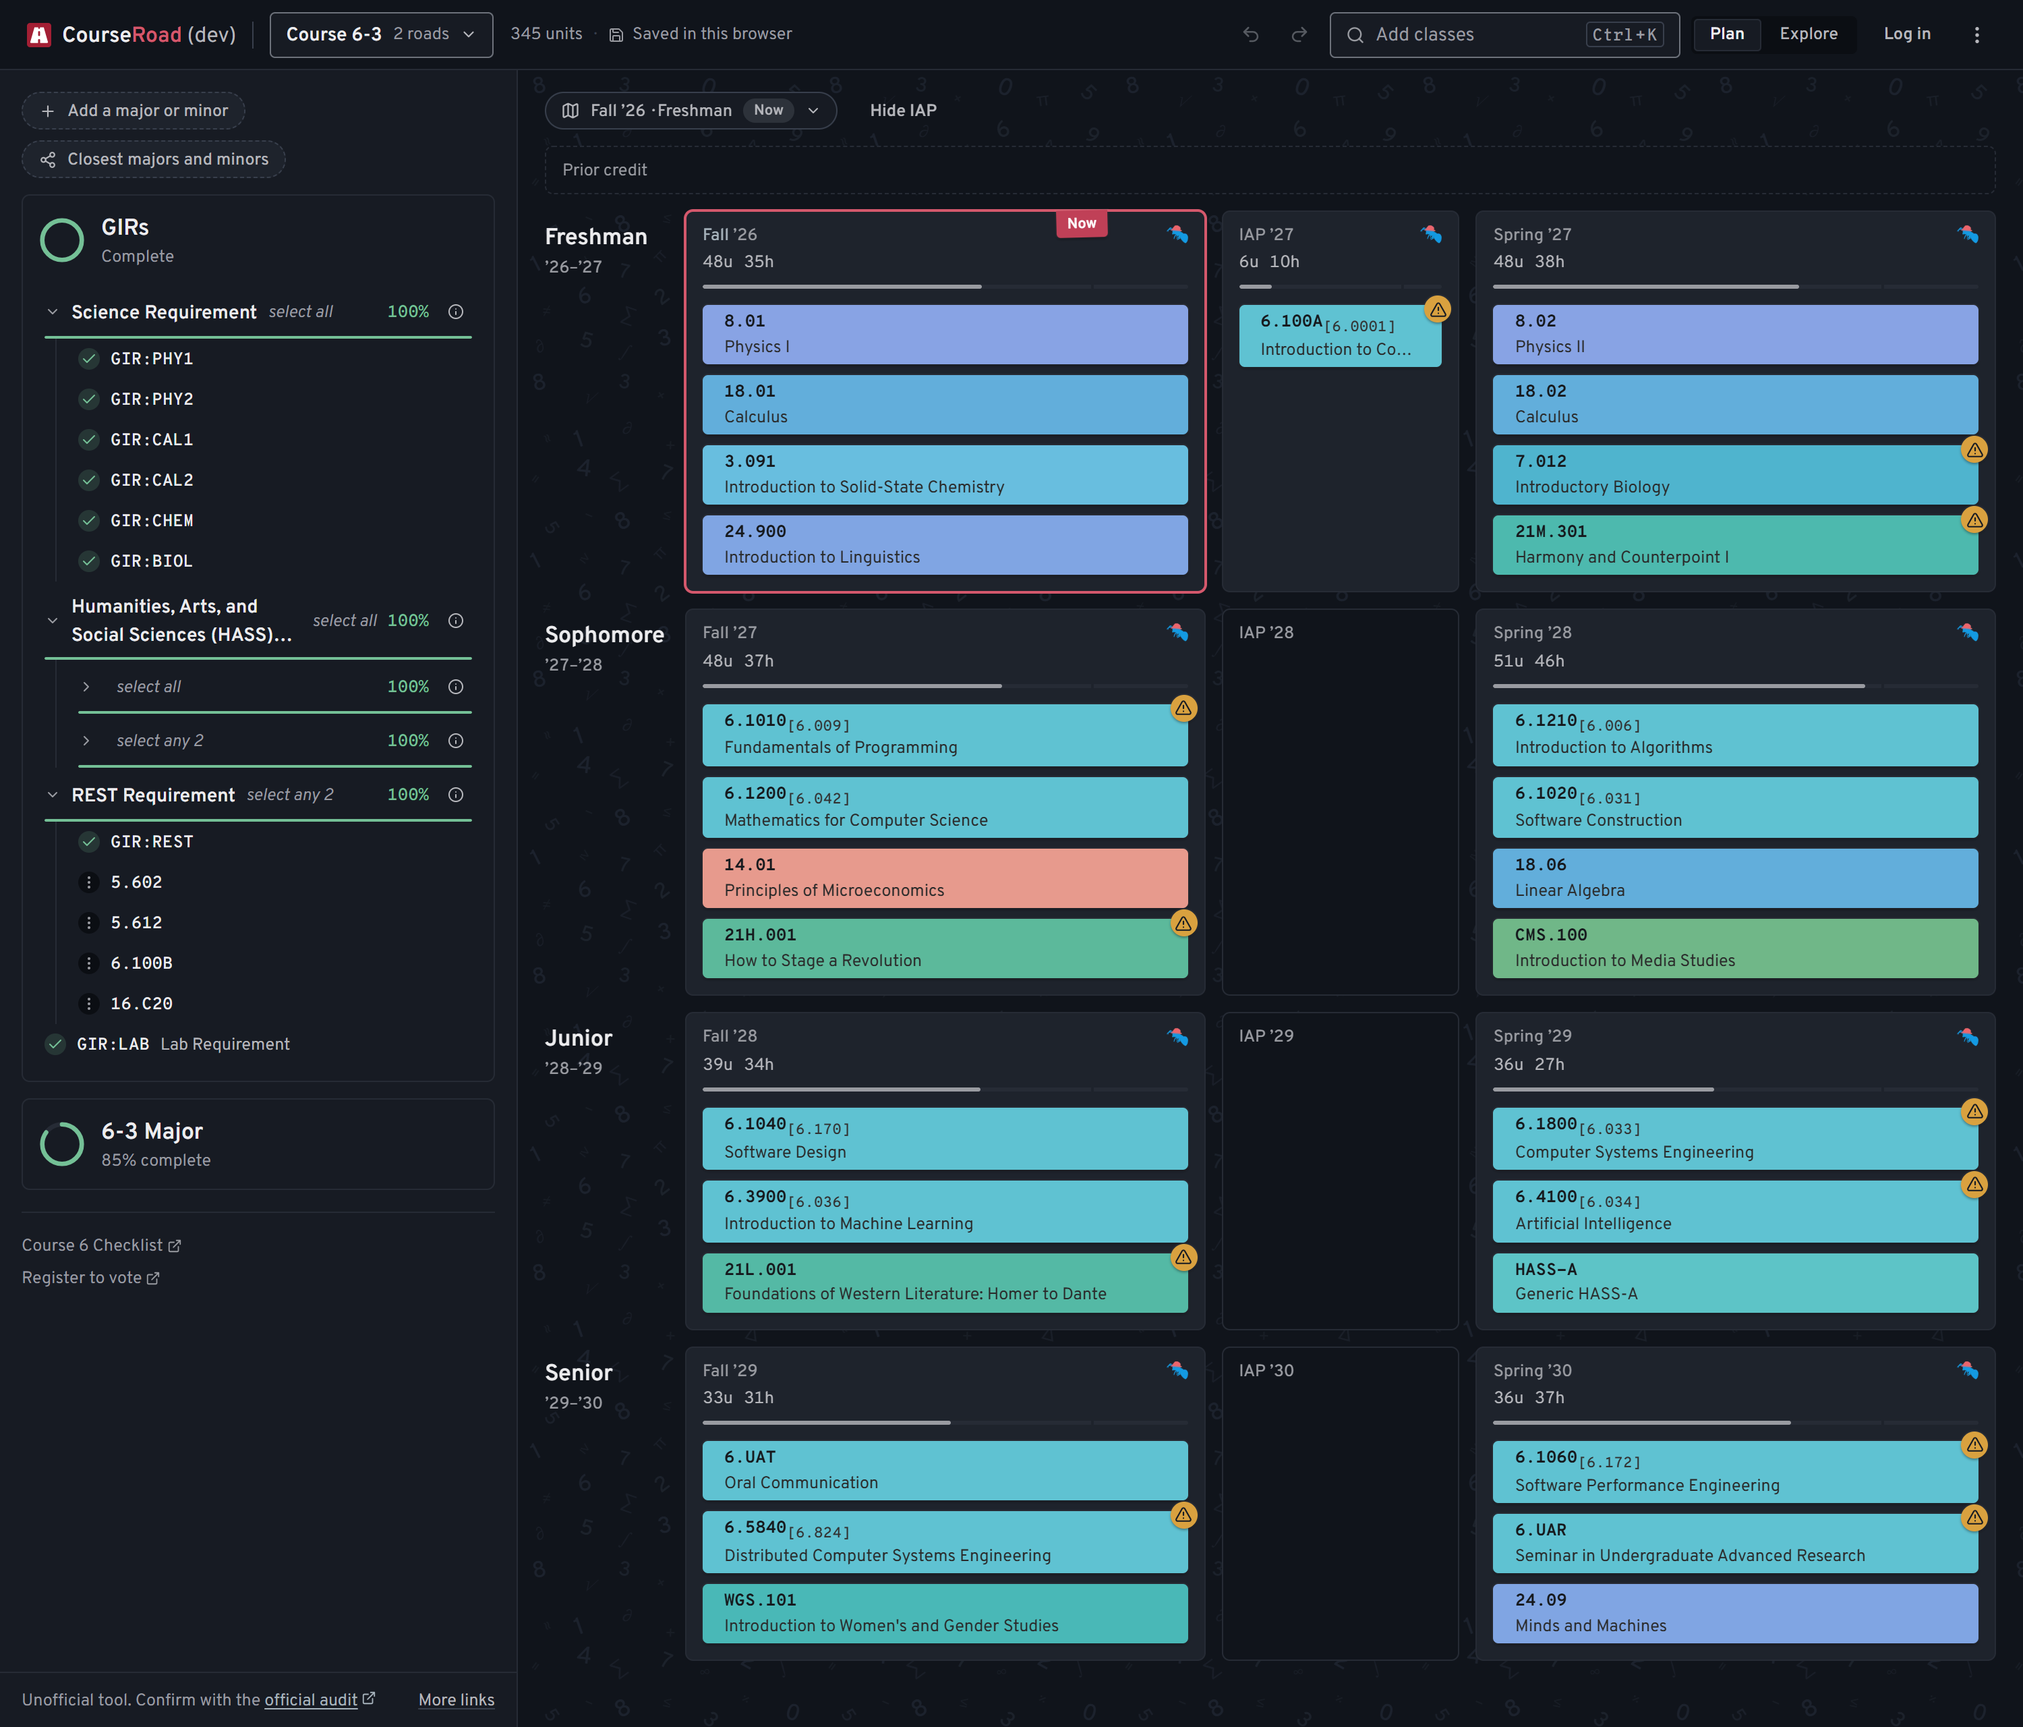
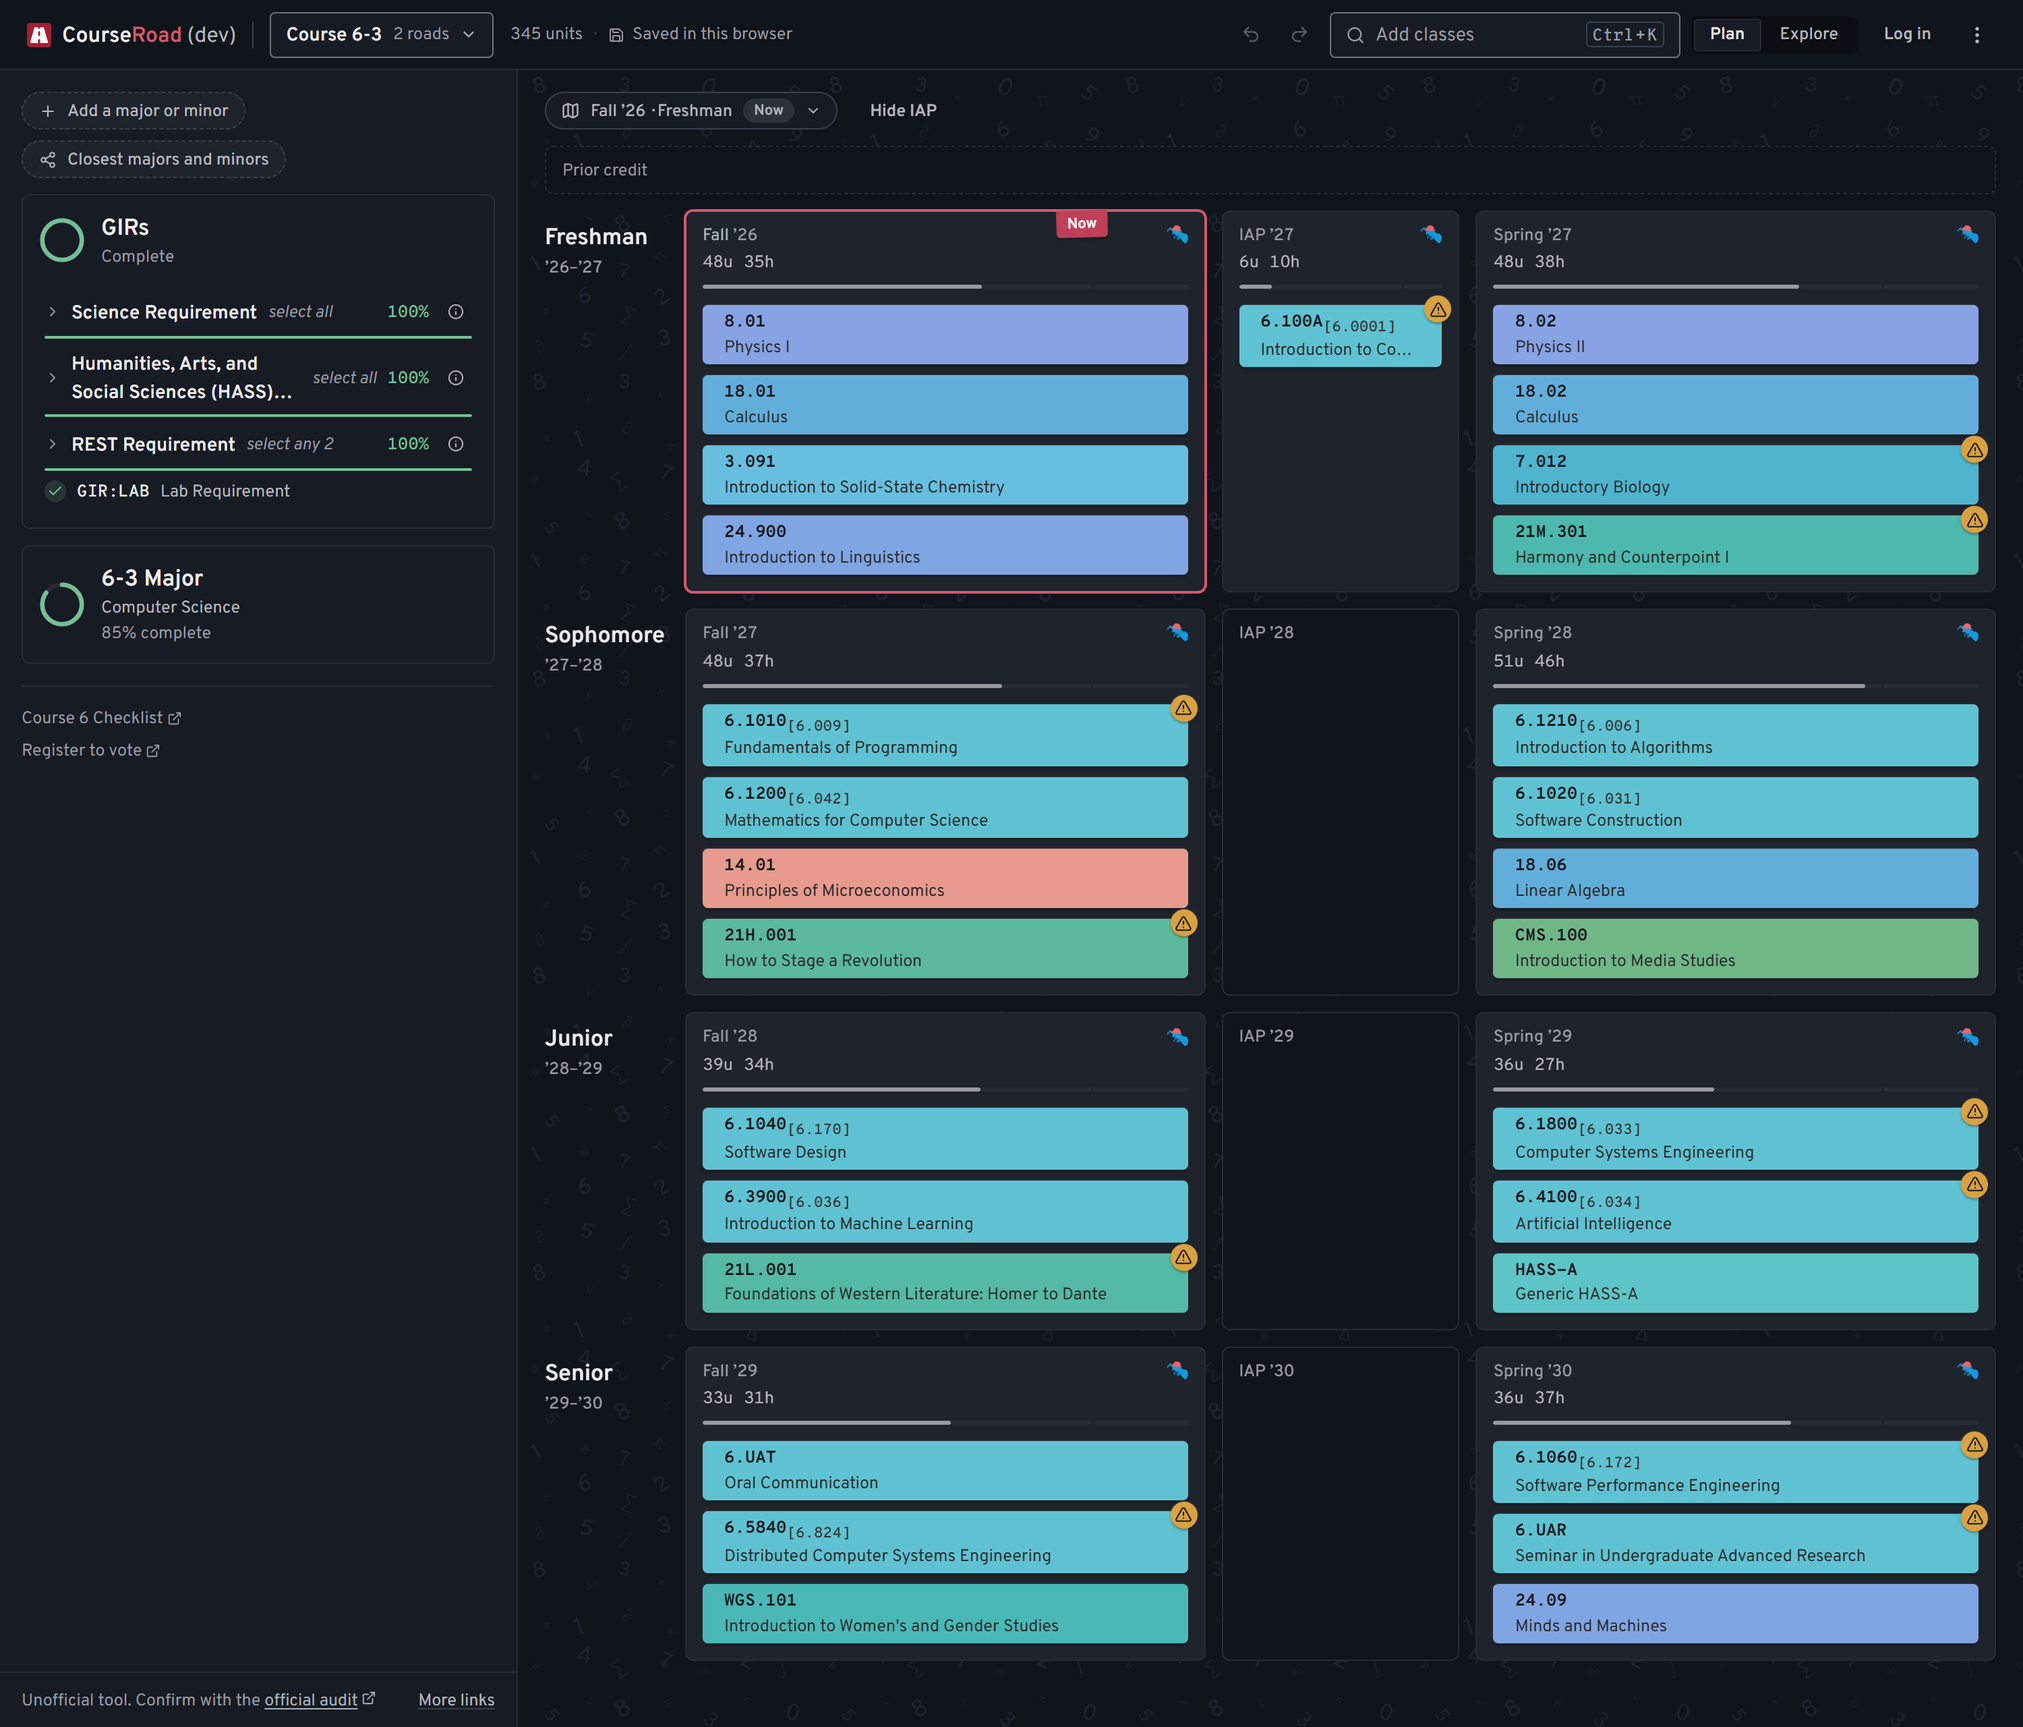
subtitle for programs, start closed

diff --git a/tests/unit/components/programSection.spec.ts b/tests/unit/components/programSection.spec.ts
@@ -2,6 +2,7 @@
 import { afterEach, beforeEach, describe, expect, it, vi } from "vitest";
 import { mount, type VueWrapper } from "@vue/test-utils";
 import { createPinia, setActivePinia } from "pinia";
+import type { ReqListEntry } from "../../../src/lib/types";
 import { reqTree, type PartialReqNode } from "../lib/fixtures";
 
 const mocks = vi.hoisted(() => ({
@@ -32,6 +33,20 @@ afterEach(() => {
   wrapper = undefined;
 });
 
+function listEntry(
+  key: string,
+  mediumTitle: string,
+  titleNoDegree: string,
+): ReqListEntry {
+  return {
+    key,
+    "short-title": key,
+    "medium-title": mediumTitle,
+    title: mediumTitle,
+    "title-no-degree": titleNoDegree,
+  };
+}
+
 describe("ProgramSection failure state", () => {
   it("shows the failed state and retries the one program", async () => {
     const audit = useAuditStore();
@@ -39,7 +54,7 @@ describe("ProgramSection failure state", () => {
     mocks.getProgress.mockResolvedValue({ data: { fulfilled: false } });
 
     wrapper = mount(ProgramSection, {
-      props: { programKey: "major18", tree: null, title: "18 Major" },
+      props: { programKey: "major18", tree: null },
     });
     expect(wrapper.text()).toContain("Progress didn't load");
     expect(wrapper.text()).not.toContain("Computing...");
@@ -53,7 +68,7 @@ describe("ProgramSection failure state", () => {
 
   it("keeps 'computing...' for a program still in flight", () => {
     wrapper = mount(ProgramSection, {
-      props: { programKey: "major6-3", tree: null, title: "6-3 Major" },
+      props: { programKey: "major6-3", tree: null },
     });
     expect(wrapper.text()).toContain("Computing...");
     expect(wrapper.text()).not.toContain("Progress didn't load");
@@ -72,7 +87,6 @@ describe("ProgramSection sub-label", () => {
       props: {
         programKey: "major6-2",
         tree: tree === null ? null : reqTree(tree),
-        title: "6-2 Major",
       },
     });
     return wrapper.find(".program-sub").text();
@@ -110,19 +124,70 @@ describe("ProgramSection sub-label", () => {
 
 describe("ProgramSection official link", () => {
   it("links the program's official page from its definition", () => {
-    useAuditStore().programUrls = {
-      minor6: "https://www.eecs.mit.edu/csminor",
-    };
+    const audit = useAuditStore();
+    audit.reqList = [listEntry("minor6", "6 Minor", "Computer Science")];
+    audit.programUrls = { minor6: "https://www.eecs.mit.edu/csminor" };
     wrapper = mount(ProgramSection, {
       props: {
         programKey: "minor6",
         tree: reqTree({ reqs: [] }),
-        title: "6 Minor",
         startOpen: true,
       },
     });
     const link = wrapper.find('a[href="https://www.eecs.mit.edu/csminor"]');
     expect(link.exists()).toBe(true);
     expect(link.text()).toContain("Official 6 Minor requirements");
+  });
+});
+
+describe("ProgramSection titles", () => {
+  it("names the program from the requirements list, with its subtitle", () => {
+    useAuditStore().reqList = [
+      listEntry("major6-3", "6-3 Major", "Computer Science"),
+    ];
+    wrapper = mount(ProgramSection, {
+      props: { programKey: "major6-3", tree: null },
+    });
+    expect(wrapper.find(".program-title").text()).toBe("6-3 Major");
+    expect(wrapper.find(".program-name").text()).toBe("Computer Science");
+  });
+
+  it("falls back to the key, with no subtitle, before the list loads", () => {
+    wrapper = mount(ProgramSection, {
+      props: { programKey: "major6-3", tree: null },
+    });
+    expect(wrapper.find(".program-title").text()).toBe("major6-3");
+    expect(wrapper.find(".program-name").exists()).toBe(false);
+  });
+
+  it("shows no subtitle for a program without one", () => {
+    useAuditStore().reqList = [listEntry("girs", "GIRs", "")];
+    wrapper = mount(ProgramSection, {
+      props: { programKey: "girs", tree: null },
+    });
+    expect(wrapper.find(".program-name").exists()).toBe(false);
+  });
+});
+
+describe("ProgramSection expand all", () => {
+  it("offers Expand all while its groups start closed, then Collapse all", async () => {
+    const tree = reqTree({
+      "list-id": "major6-3",
+      reqs: [
+        { "list-id": "major6-3.0", reqs: [{ req: "6.1010" }] },
+        { "list-id": "major6-3.1", reqs: [{ req: "6.1200" }] },
+      ],
+    });
+    wrapper = mount(ProgramSection, {
+      props: { programKey: "major6-3", tree, startOpen: true },
+    });
+    const toggle = () => wrapper!.find(".program-expandall");
+    expect(toggle().text()).toBe("Expand all");
+    expect(wrapper.findAll(".branch-row .branch-chevron")).toHaveLength(2);
+    expect(wrapper.text()).not.toContain("6.1010");
+
+    await toggle().trigger("click");
+    expect(toggle().text()).toBe("Collapse all");
+    expect(wrapper.text()).toContain("6.1010");
   });
 });

diff --git a/src/components/audit/ProgramSection.vue b/src/components/audit/ProgramSection.vue
@@ -32,6 +32,7 @@
           </svg>
           <span class="program-title-block">
             <span class="program-title">{{ title }}</span>
+            <span v-if="subtitle" class="program-name">{{ subtitle }}</span>
             <span class="program-sub">
               <template v-if="preview">What if? (not saved)</template>
               <template v-else-if="tree?.fulfilled">Complete</template>
@@ -124,6 +125,7 @@ import GLink from "../../design/components/GLink.vue";
 import GIcon from "../../design/components/GIcon.vue";
 import ReqNode from "./ReqNode.vue";
 import type { RequirementNode } from "../../lib/types";
+import { programSubtitle, programTitle } from "../../lib/audit";
 import { safeHref } from "../../lib/courseLinks";
 import { announce } from "../../design/announce";
 import { prefersReducedMotion } from "../../design/tokens";
@@ -132,7 +134,6 @@ import { useAuditStore } from "../../stores/audit";
 const props = defineProps<{
   programKey: string;
   tree: RequirementNode | null;
-  title: string;
   preview?: boolean;
   startOpen?: boolean;
 }>();
@@ -142,6 +143,14 @@ const emit = defineEmits<{
 }>();
 
 const auditStore = useAuditStore();
+
+const title = computed(() =>
+  programTitle(auditStore.reqList, props.programKey),
+);
+
+const subtitle = computed(() =>
+  programSubtitle(auditStore.reqList, props.programKey),
+);
 
 /** The program's official page: on its definition, not its progress tree. */
 const officialUrl = computed(
@@ -164,25 +173,21 @@ function toggleOpen() {
 }
 
 /* ---- expand all / collapse all ---- */
-/* Every branch under this program with its current open state. Children
-   of the tree root render at depth 0, so their default is open. Leaves
+/* Every branch under this program with its current open state. Leaves
    carry no expansion state and are skipped. */
 const branchStates = computed<{ key: string; open: boolean }[]>(() => {
   const list: { key: string; open: boolean }[] = [];
-  const walk = (node: RequirementNode, childDepth: number) => {
+  const walk = (node: RequirementNode) => {
     for (const child of node.reqs ?? []) {
       if (child.reqs !== undefined) {
         const key = props.programKey + "/" + (child["list-id"] ?? "");
-        list.push({
-          key,
-          open: auditStore.expanded[key] ?? childDepth < 1,
-        });
-        walk(child, childDepth + 1);
+        list.push({ key, open: auditStore.isNodeOpen(key) });
+        walk(child);
       }
     }
   };
   if (props.tree !== null) {
-    walk(props.tree, 0);
+    walk(props.tree);
   }
   return list;
 });
@@ -248,7 +253,7 @@ watch(
   () => props.tree?.fulfilled,
   (nowDone, wasDone) => {
     if (nowDone && wasDone === false && !props.preview) {
-      announce(`${props.title} requirements complete`);
+      announce(`${title.value} requirements complete`);
       if (!prefersReducedMotion()) {
         celebrating.value = true;
         setTimeout(() => {
@@ -386,6 +391,13 @@ watch(
   -webkit-box-orient: vertical;
   -webkit-line-clamp: 2;
   line-clamp: 2;
+}
+.program-name {
+  font: var(--text-small);
+  color: var(--g-ink-2);
+  overflow: hidden;
+  text-overflow: ellipsis;
+  white-space: nowrap;
 }
 .program-sub {
   font: var(--text-small);

diff --git a/tests/unit/lib/audit.spec.ts b/tests/unit/lib/audit.spec.ts
@@ -5,6 +5,7 @@ import {
   isIgnored,
   isPetitioned,
   manualProgress,
+  programSubtitle,
   sortCoursesList,
 } from "../../../src/lib/audit";
 import type { ReqListEntry } from "../../../src/lib/types";
@@ -170,5 +171,31 @@ describe("subjectUses", () => {
 
   it("ignores plain-string leaves, whose subjects are only a choice", () => {
     expect(subjectUses(tree).has("18.300")).toBe(false);
+  });
+});
+
+describe("programSubtitle", () => {
+  const list = [
+    {
+      ...entry("major6-3", "6-3 Major"),
+      "title-no-degree": "Computer Science",
+    },
+    { ...entry("girs", "GIRs"), "title-no-degree": "" },
+    { ...entry("x", "Same"), "title-no-degree": " Same " },
+    {
+      ...entry("minor15F", "15 Minor (Finance)"),
+      "title-no-degree": "Finance",
+    },
+  ];
+
+  it("gives the program's title without the degree", () => {
+    expect(programSubtitle(list, "major6-3")).toBe("Computer Science");
+  });
+
+  it("gives nothing when it is empty, in the title already, or unknown", () => {
+    expect(programSubtitle(list, "girs")).toBeUndefined();
+    expect(programSubtitle(list, "x")).toBeUndefined();
+    expect(programSubtitle(list, "minor15F")).toBeUndefined();
+    expect(programSubtitle(list, "nope")).toBeUndefined();
   });
 });

diff --git a/src/components/audit/AuditPanel.vue b/src/components/audit/AuditPanel.vue
@@ -82,7 +82,6 @@
       v-if="auditStore.previewProgram !== null"
       :program-key="auditStore.previewProgram"
       :tree="previewTreeWithIds"
-      :title="titleFor(auditStore.previewProgram)"
       preview
     />
 
@@ -92,7 +91,6 @@
       :key="req"
       :program-key="req"
       :tree="treeFor(req, index)"
-      :title="titleFor(req)"
       :start-open="index === 0"
       @remove="removeProgram(req)"
     />
@@ -190,13 +188,9 @@ function previewProgram(key: string) {
 
 function removeProgram(key: string) {
   store.removeReq(key);
-  toast.undoable(`Removed ${titleFor(key)}`, () => {
+  toast.undoable(`Removed ${programTitle(auditStore.reqList, key)}`, () => {
     store.addReq(key);
   });
-}
-
-function titleFor(key: string): string {
-  return programTitle(auditStore.reqList, key);
 }
 
 function treeFor(req: string, index: number): RequirementNode | null {

diff --git a/src/lib/audit.ts b/src/lib/audit.ts
@@ -161,3 +161,17 @@ export function isIgnored(
 export function programTitle(reqList: ReqListEntry[], key: string): string {
   return reqList.find((e) => e.key === key)?.["medium-title"] ?? key;
 }
+
+/** A program's title without the degree ("Computer Science" for 6-3),
+ *  unless it is empty or the medium title already says it ("Finance"
+ *  under "15 Minor (Finance)"). */
+export function programSubtitle(
+  reqList: ReqListEntry[],
+  key: string,
+): string | undefined {
+  const entry = reqList.find((e) => e.key === key);
+  const name = entry?.["title-no-degree"].trim();
+  return name && !entry?.["medium-title"].trim().includes(name)
+    ? name
+    : undefined;
+}

diff --git a/src/stores/audit.ts b/src/stores/audit.ts
@@ -45,6 +45,14 @@ export const useAuditStore = defineStore("audit", {
      */
     expanded: {} as Record<string, boolean>,
   }),
+  getters: {
+    /** Whether a requirement group is open. Groups start closed until
+     *  opened. Key: programKey + "/" + list-id. */
+    isNodeOpen:
+      (state) =>
+      (key: string): boolean =>
+        state.expanded[key] ?? false,
+  },
   actions: {
     /** Record one expansion entry. Key: programKey + "/" + list-id. */
     setNode(key: string, open: boolean) {

diff --git a/tests/e2e/audit.spec.ts b/tests/e2e/audit.spec.ts
@@ -11,7 +11,9 @@ test("adding a program shows its audit progress", async ({ page }) => {
     .click();
   await page.locator('[data-cy="addProgrammajor6-3"]').click();
   await expect(
-    page.getByRole("button", { name: /6-3 Major 50% complete/ }),
+    page.getByRole("button", {
+      name: "6-3 Major Computer Science and Engineering 50% complete",
+    }),
   ).toBeVisible();
 });
 

diff --git a/src/components/audit/ReqNode.vue b/src/components/audit/ReqNode.vue
@@ -359,7 +359,7 @@ const nodeKey = computed(
   () => props.programKey + "/" + (props.node["list-id"] ?? ""),
 );
 const open = computed({
-  get: () => auditStore.expanded[nodeKey.value] ?? props.depth < 1,
+  get: () => auditStore.isNodeOpen(nodeKey.value),
   set: (value) => auditStore.setNode(nodeKey.value, value),
 });
 const infoOpen = ref(false);

diff --git a/tests/e2e/chooseSubjects.spec.ts b/tests/e2e/chooseSubjects.spec.ts
@@ -66,6 +66,7 @@ test("a choose-n requirement counts the subjects picked for it", async ({
   });
   await page.goto("/road/$0$");
 
+  await cy(page, "auditItemmajor18gm.1").click();
   await cy(page, "auditItemmajor18gm.1.0").click();
   const chooser = cy(page, "chooseSubjects");
   await expect(chooser).toBeVisible();

diff --git a/tests/e2e/detailOverlay.spec.ts b/tests/e2e/detailOverlay.spec.ts
@@ -64,6 +64,7 @@ async function openTallRoad(context: BrowserContext, page: Page) {
   });
   await page.goto("/");
   await cy(page, "roadSwitcher").waitFor();
+  await page.getByRole("button", { name: /^Expand all of/ }).click();
   await expect(page.locator(".leaf-row")).toHaveCount(48);
 }
 
